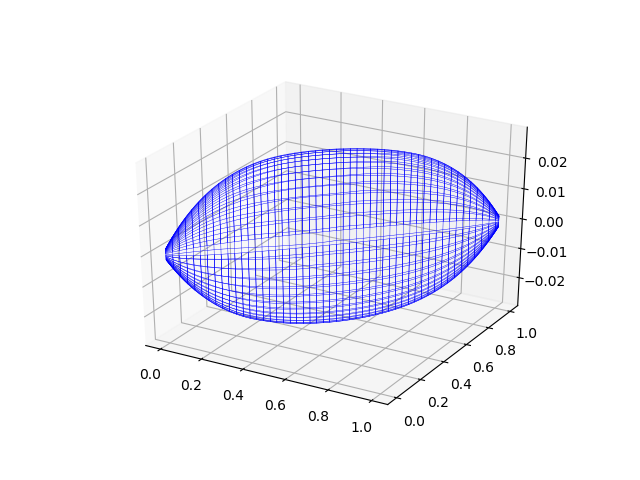
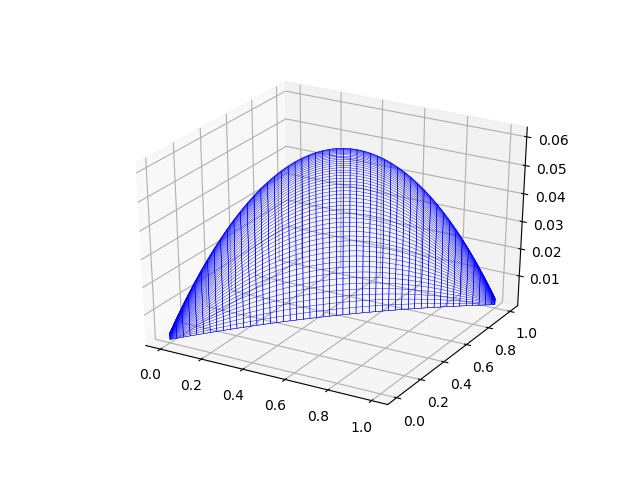
improved plot method

diff --git a/continuous_system/06/poisson.py b/continuous_system/06/poisson.py
@@ -24,13 +24,50 @@ class SOR:
 		return self.x
 
 class Poisson:
-	def __init__(self, size, num):
+	def __init__(self, size, num, f, u):
 		self.size = size
 		self.num = num - 1 # 内部の点の個数
 		self.cells = self.num * self.num
 		self.h = size / num
 		self.range = np.linspace(0, size, self.num)
+		self.f = f
+		self.u = u
 
+	def calc_b(self):
+		b = np.zeros((self.num, self.num))
+		for i, x in enumerate(self.range):
+			for j, y in enumerate(self.range):
+				b[i, j] = self.f(x, y)
+		return b
+
+	def calc_u(self):
+		u = np.zeros((self.num, self.num))
+		for i, x in enumerate(self.range):
+			for j, y in enumerate(self.range):
+				u[i, j] = self.u(x, y)
+		return u
+
+	def diffsum(self, result, u):
+		return np.sum(abs(result - u))
+
+	def diffmap(self, result, u):
+		return result - u
+
+	def plot(self, values, name):
+		plt.pcolor(self.range, self.range, values)
+		plt.gca().set_aspect('equal', adjustable='box')
+		plt.colorbar()
+		plt.savefig("%s.png" %(name))
+		plt.clf()
+
+	def plot3d(self, values, name):
+		fig = plt.figure() #プロット領域の作成
+		ax = fig.gca(projection='3d') #プロット中の軸の取得。gca は"Get Current Axes" の略。
+		ax.plot_wireframe(self.range, self.range, values, color='blue',linewidth=0.3)
+		#ax.plot_surface(x_range, y_range, result, rstride=1, cstride=1, cmap='hsv', linewidth=0.3)
+		plt.savefig("%s3d.png" %(name))
+		plt.clf()
+		
 	def __call__(self):
 		I = np.eye(self.num)
 		O = np.ones((self.num, self.num))
@@ -39,28 +76,27 @@ class Poisson:
 		B = U + L
 		A = - 4 * np.kron(I, I) + np.kron(B, I) + np.kron(I, B)
 		print(self.h)
-		print(A)
 		print(A.shape)
 		x = np.zeros(self.cells)
-		print(x)
 		print(x.shape)
-		b = np.concatenate((np.full(self.cells // 2, -1), np.full(self.cells - self.cells // 2, 1)))
-		# b = np.full(self.cells, -1)
-		print(b)
+		b = np.reshape(self.calc_b(), self.cells)
 		print(b.shape)
-		result = SOR(A / self.h ** 2, x, b, 1.95, 100)() # ここのxは端っこは含まれていない
+		result = SOR(A / self.h ** 2, x, b, 1.95, 300)() # ここのxは端っこは含まれていない
 		result = np.reshape(result, (self.num, self.num))
-
-		plt.contourf(self.range, self.range, result)
-		plt.colorbar()
-		plt.savefig("poisson.png")
-		plt.clf()
-		fig = plt.figure() #プロット領域の作成
-		ax = fig.gca(projection='3d') #プロット中の軸の取得。gca は"Get Current Axes" の略。
-		ax.plot_wireframe(self.range, self.range, result, color='blue',linewidth=0.3)
-		#ax.plot_surface(x_range, y_range, result, rstride=1, cstride=1, cmap='hsv', linewidth=0.3)
-		plt.savefig("poisson3d.png")
+		print("diff = ", self.diffsum(result, self.calc_u()))
+		diff = self.diffmap(result, self.calc_u())
 		
+		self.plot(result, "poisson")
+		self.plot(diff, "diff")
+		self.plot3d(result, "poisson")
+		self.plot3d(diff, "diff")
+		
+def f(x, y):
+	return 2 * (x * (x - 1) + y * (y - 1))
+
+def u(x, y):
+	return x * (x - 1) * y * (y - 1)
+
 if __name__ == "__main__":
 	size, num = 1, 101
-	result = Poisson(size, num)()
+	result = Poisson(size, num, f, u)()
